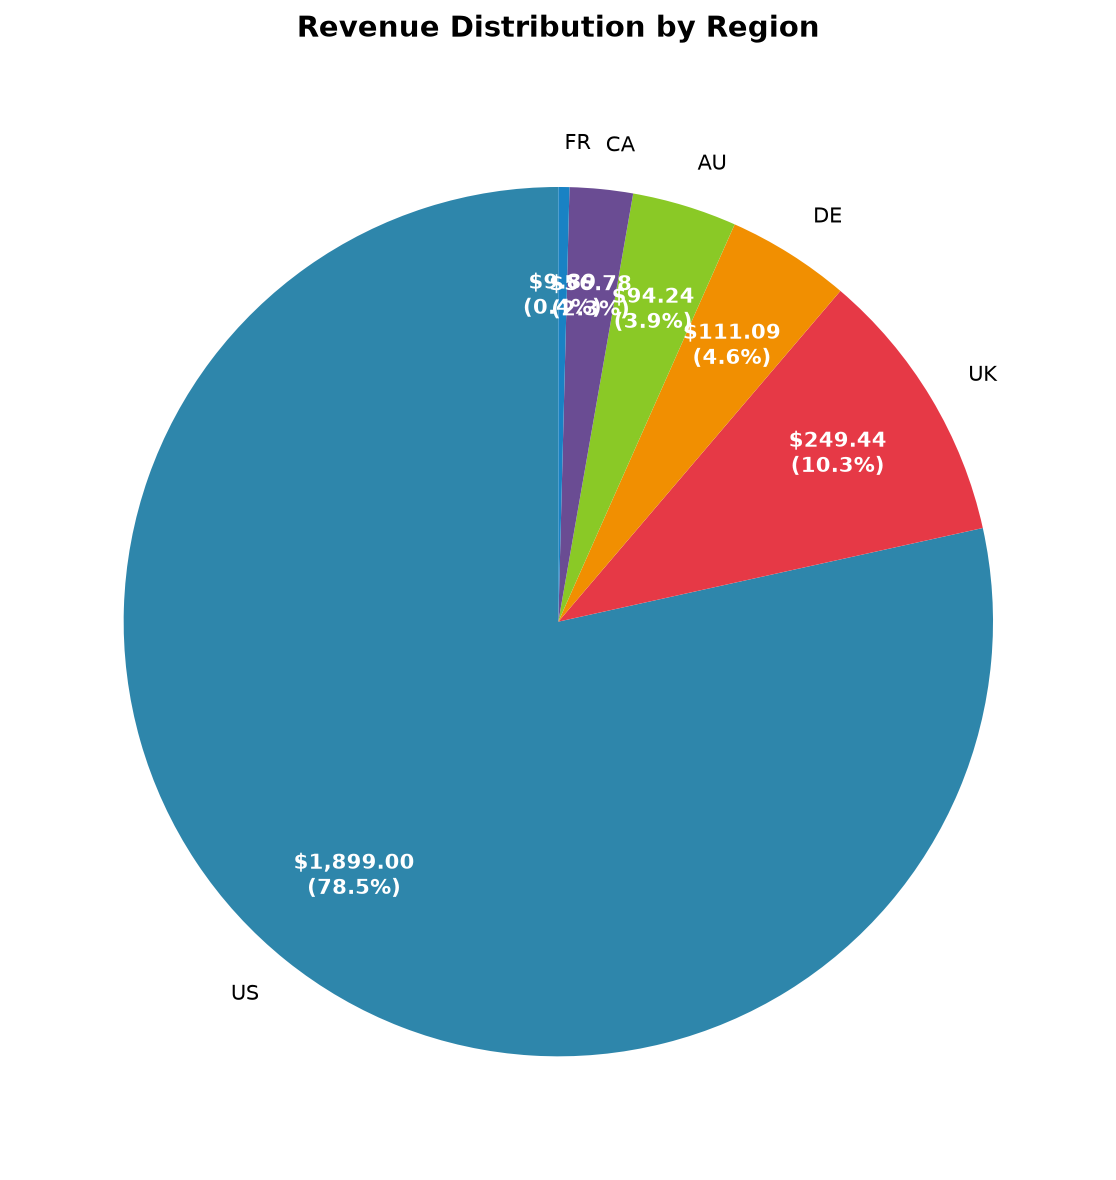
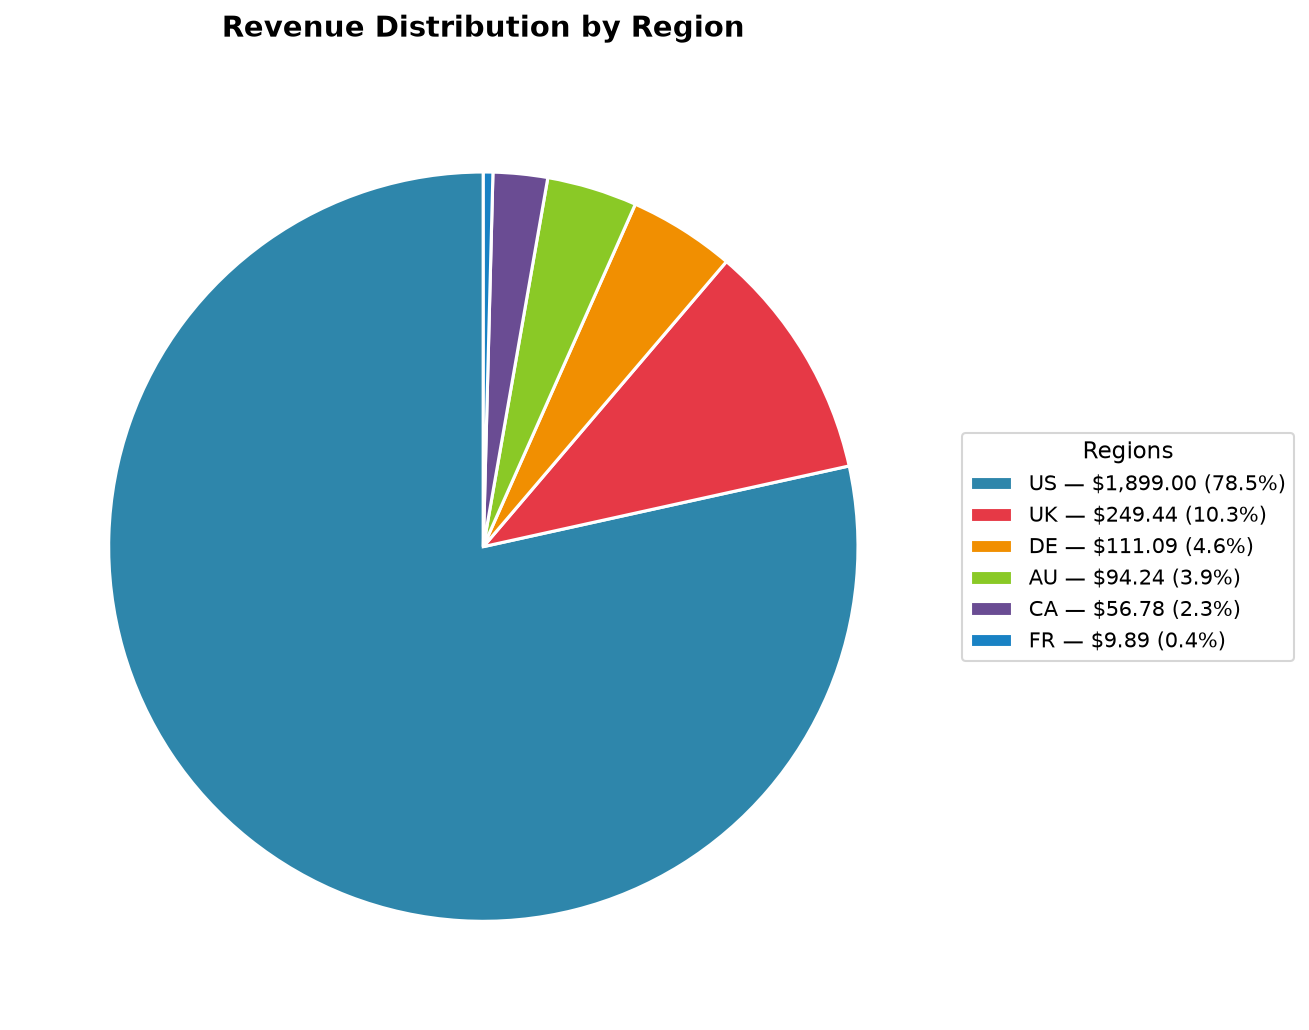
fix(docs): clean README structure layout and fix regional chart labels
- Reformatted Project Structure as grouped bulleted lists for GitHub rendering
- Moved pie chart labels to external legend to prevent overlap
- Added dollar amounts to legend entries

diff --git a/src/visualizer.py b/src/visualizer.py
@@ -119,23 +119,32 @@ def chart_regional_distribution(conn):
         ORDER BY total_royalties DESC
     """, conn)
 
-    fig, ax = plt.subplots(figsize=(8, 8))
+    total = df['total_royalties'].sum()
+
+    fig, ax = plt.subplots(figsize=(10, 7))
 
     colors = ['#2E86AB', '#E63946', '#F18F01', '#8AC926', '#6A4C93', '#1982C4']
 
-    wedges, texts, autotexts = ax.pie(
+    wedges, _ = ax.pie(
         df['total_royalties'],
-        labels=df['region'],
-        autopct=lambda p: f'${p * df["total_royalties"].sum() / 100:,.2f}\n({p:.1f}%)',
+        labels=None,
         colors=colors[:len(df)],
         startangle=90,
-        pctdistance=0.75,
-        textprops={'fontsize': 10}
+        wedgeprops={'edgecolor': 'white', 'linewidth': 1.5}
     )
 
-    for autotext in autotexts:
-        autotext.set_color('white')
-        autotext.set_fontweight('bold')
+    legend_labels = [
+        f'{row.region} — ${row.total_royalties:,.2f} ({row.total_royalties/total*100:.1f}%)'
+        for row in df.itertuples()
+    ]
+    ax.legend(
+        wedges,
+        legend_labels,
+        title='Regions',
+        loc='center left',
+        bbox_to_anchor=(1, 0.5),
+        fontsize=10
+    )
 
     ax.set_title('Revenue Distribution by Region', fontsize=14, fontweight='bold', pad=20)
 

diff --git a/README.md b/README.md
@@ -77,24 +77,26 @@ ACX reports export internal product IDs (`BK_ACX0_XXXXXX`) that don't match ASIN
 
 ## Project Structure
 
-author_business_analytics/
-├── src/
-│   ├── schemas.py          # Column mapping dictionaries & PII config
-│   ├── book_catalog.py     # Book metadata crosswalk & hybrid matching
-│   ├── loaders.py          # Platform-specific ingestion (ACX, future: KDP, D2D)
-│   ├── analyzer.py         # SQLite database layer & analytical queries
-│   └── visualizer.py       # Matplotlib chart generation
-├── data/
-│   ├── catalog_products.csv # Master book catalog (series, formats, identifiers)
-│   └── raw/                 # Raw platform exports (gitignored)
-├── results/
-│   └── figures/             # Generated PNG charts
-├── sql_queries.sql          # Showcase analytical SQL queries
-├── test_loader.py           # End-to-end pipeline test harness
-├── test_sql_queries.py      # SQL validation test suite
-├── requirements.txt         # Python dependencies
-├── .gitignore               # Excludes raw data, DBs, caches
-└── README.md
+**Core Modules (`src/`)**
+- `schemas.py` — Column mapping dictionaries and PII config
+- `book_catalog.py` — Book metadata crosswalk and hybrid matching
+- `loaders.py` — Platform-specific ingestion (ACX, future: KDP, D2D)
+- `analyzer.py` — SQLite database layer and analytical queries
+- `visualizer.py` — Matplotlib chart generation
+
+**Data**
+- `data/catalog_products.csv` — Master book catalog (series, formats, identifiers)
+- `data/raw/` — Raw platform exports (gitignored)
+
+**Outputs**
+- `results/figures/` — Generated PNG charts
+
+**Root Files**
+- `sql_queries.sql` — Showcase analytical SQL queries
+- `test_loader.py` — End-to-end pipeline test harness
+- `test_sql_queries.py` — SQL validation test suite
+- `requirements.txt` — Python dependencies
+- `.gitignore` — Excludes raw data, DBs, caches
 
 ## Getting Started
 